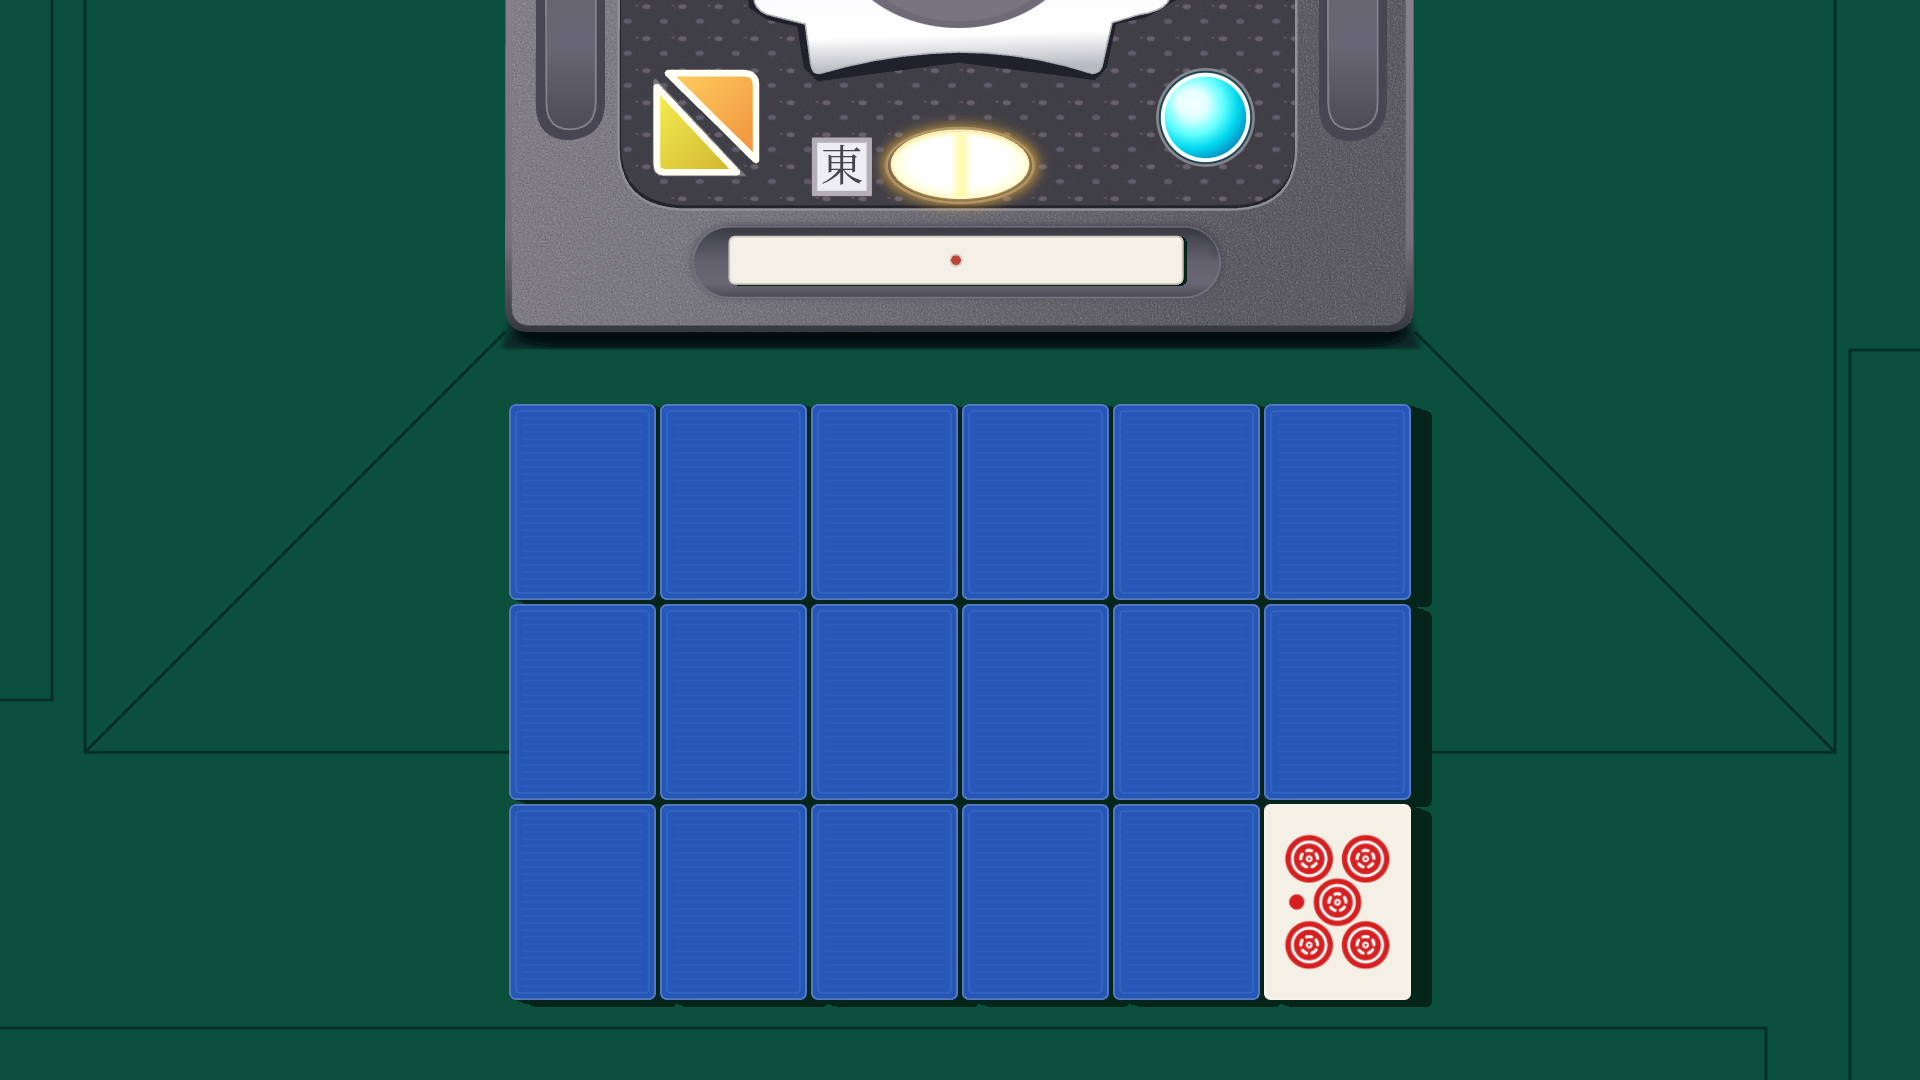
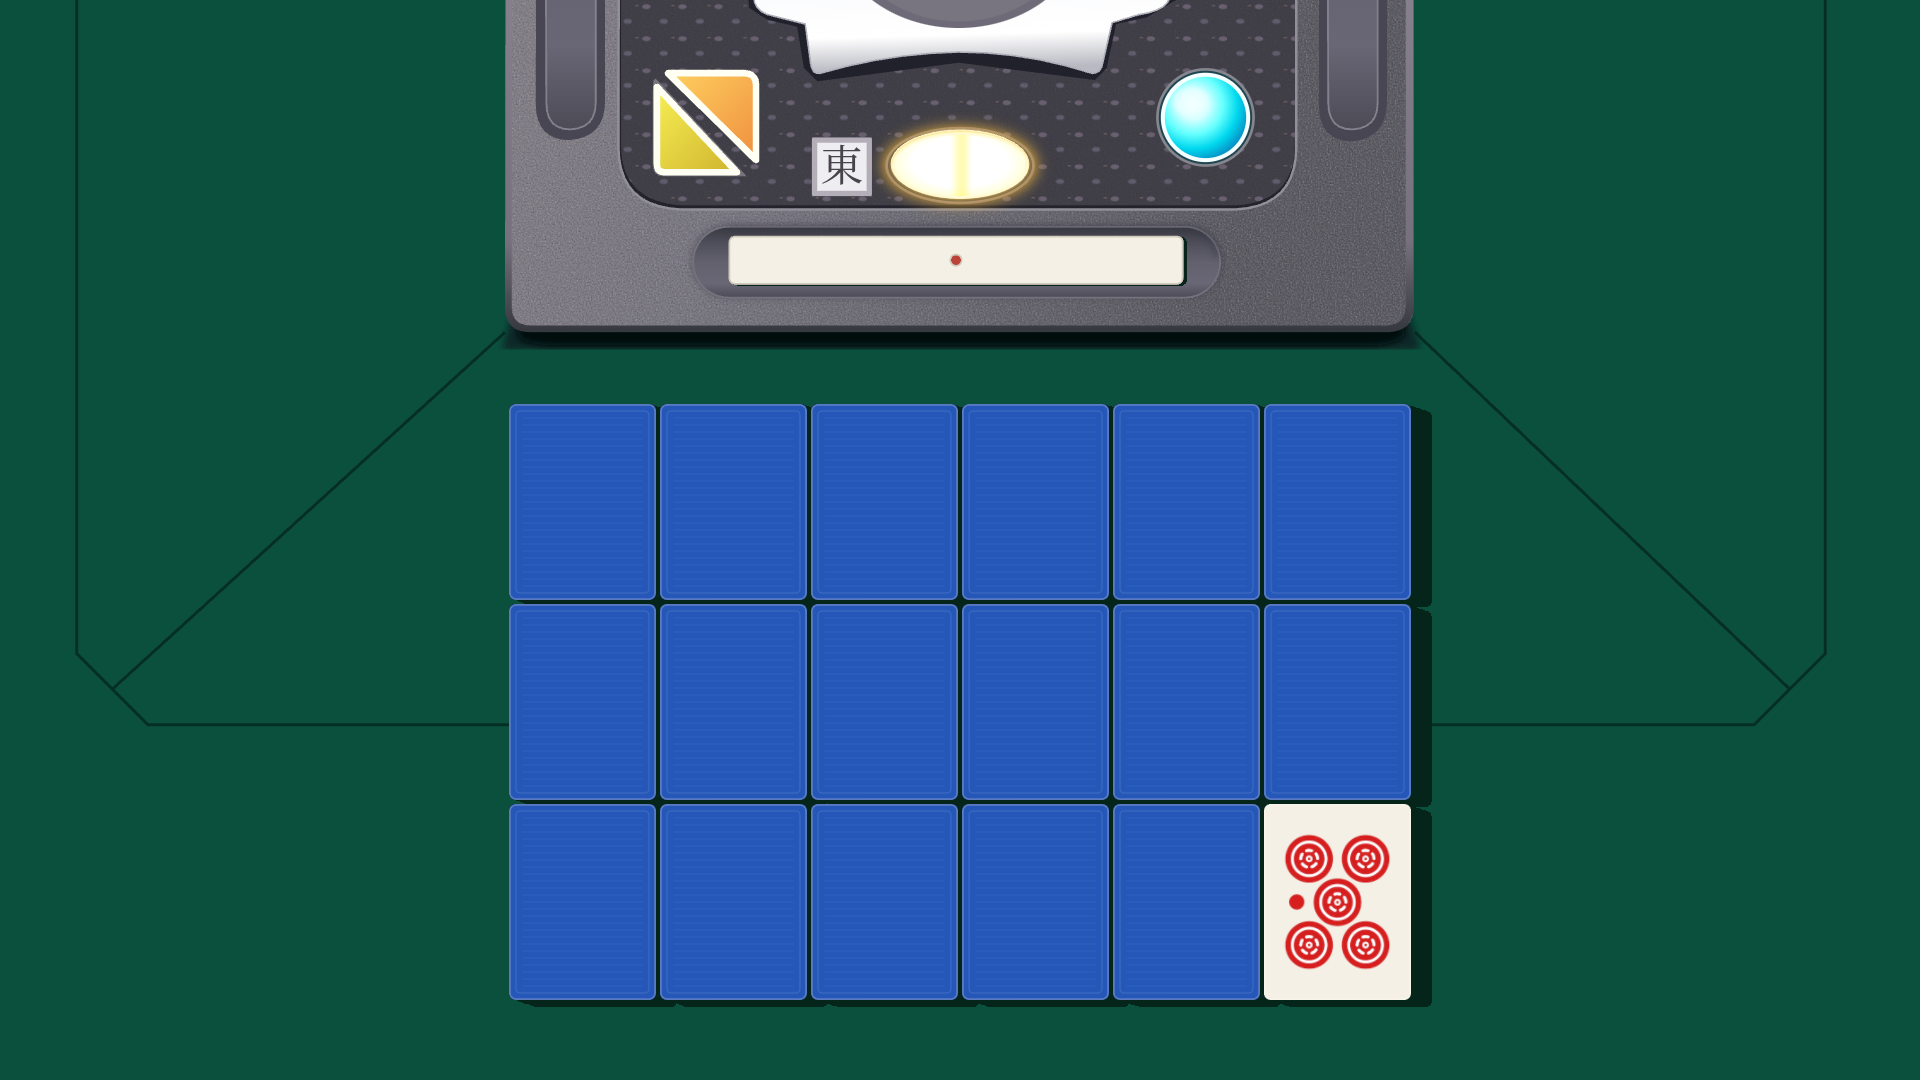
Trace tabletop seams to the supplied overhead reference

diff --git a/table-surface.js b/table-surface.js
@@ -1,18 +1,48 @@
-import { CONTROL, controlPoint, mm } from './physical-layout.js';
+import { CONTROL, controlPoint } from './physical-layout.js';
 
-// Reference: the overhead AMOS REXX III CSJ replacement mat. Closed lift doors
-// have thin rectangular joints; diagonal cuts connect the center lid to its box.
-// The four wall doors are fitted to this cropped composition, not factory dimensions.
-const doorLength = mm(348), doorWidth = mm(21);
-const doors = [
-  [1040, -1160, doorLength, doorWidth],
-  [-95, 700 - doorLength, doorWidth, doorLength],
-  [1850, 350, doorWidth, doorLength],
-  [-670, 1028, doorLength, doorWidth],
-];
-// The upper door stays above y=0 in this fixed crop and needs no canvas padding.
-const lowerDoors = doors.filter(([, y, , height]) => y + height >= 0);
+// Traced from the left (white) table in the user's 730x486 overhead photograph.
+// These are photograph pixels, not guessed millimeters or viewport placements.
+export const TABLE_REFERENCE = Object.freeze({
+  image: { width: 730, height: 486 },
+  control: { x: 158, y: 211, width: 51, height: 51 },
+  cover: [[138, 188], [228, 188], [232, 192], [232, 280], [228, 284], [138, 284], [134, 280], [134, 192]],
+  dividers: [
+    [[136, 190], [158, 211]], [[230, 190], [209, 211]],
+    [[230, 282], [209, 262]], [[136, 282], [158, 262]],
+  ],
+  openings: [
+    { id: 'lift-top', x: 139, y: 154, width: 137, height: 13 },
+    { id: 'lift-right', x: 252, y: 191, width: 12, height: 138 },
+    { id: 'lift-bottom', x: 90, y: 305, width: 137, height: 13 },
+    { id: 'lift-left', x: 102, y: 143, width: 12, height: 137 },
+    { id: 'deal-top', x: 139, y: 114, width: 99, height: 12 },
+    { id: 'deal-right', x: 293, y: 193, width: 12, height: 98 },
+    { id: 'deal-bottom', x: 127, y: 346, width: 100, height: 12 },
+    { id: 'deal-left', x: 61, y: 181, width: 12, height: 100 },
+  ],
+});
 export const SEAM_WIDTH = 3;
+const referenceScale = CONTROL.width / TABLE_REFERENCE.control.width;
+const anchor = controlPoint(7, 249);
+
+// Align the photo's control-box lower-left corner to the existing 2D housing.
+// One uniform scale preserves every length ratio and relative offset.
+export function referencePoint(x, y) {
+  const control = TABLE_REFERENCE.control;
+  return {
+    x: anchor.x + (x - control.x) * referenceScale,
+    y: anchor.y + (y - control.y - control.height) * referenceScale,
+  };
+}
+
+export const TABLE_SEAMS = Object.freeze({
+  cover: TABLE_REFERENCE.cover.map(([x, y]) => referencePoint(x, y)),
+  dividers: TABLE_REFERENCE.dividers.map(line => line.map(([x, y]) => referencePoint(x, y))),
+  openings: TABLE_REFERENCE.openings.map(({ id, x, y, width, height }) => ({
+    id, ...referencePoint(x, y), width: width * referenceScale, height: height * referenceScale,
+  })),
+});
+const lowerOpenings = TABLE_SEAMS.openings.filter(({ y, height }) => y + height >= 0);
 
 // Keep the original composition's fit and position. Only its tabletop grows;
 // the 3D camera, hit targets and cropped control box retain their coordinates.
@@ -21,23 +51,23 @@ export function tableLayout(width, height) {
   const sceneLeft = (width - 1920 * scale) / 2;
   const sceneTop = (height - 1080 * scale) / 2;
   const padding = SEAM_WIDTH;
-  const left = Math.floor(Math.min(-sceneLeft / scale, ...lowerDoors.map(([x]) => x - padding)));
-  const right = Math.ceil(Math.max((width - sceneLeft) / scale, ...lowerDoors.map(([x, , w]) => x + w + padding)));
-  const bottom = Math.ceil(Math.max((height - sceneTop) / scale, ...lowerDoors.map(([, y, , h]) => y + h + padding)));
+  const left = Math.floor(Math.min(-sceneLeft / scale, ...lowerOpenings.map(({ x }) => x - padding)));
+  const right = Math.ceil(Math.max((width - sceneLeft) / scale, ...lowerOpenings.map(({ x, width }) => x + width + padding)));
+  const bottom = Math.ceil(Math.max((height - sceneTop) / scale, ...lowerOpenings.map(({ y, height }) => y + height + padding)));
   return { scale, sceneLeft, sceneTop, left, width: right - left, height: bottom };
 }
 
 export function drawTableSeams(context) {
-  const lowerLeft = controlPoint(7, 249), lowerRight = controlPoint(689, 249);
-  const margin = mm(60), side = CONTROL.width + margin * 2;
-  const left = lowerLeft.x - margin, bottom = lowerLeft.y + margin;
   context.save();
   context.strokeStyle = '#052f24'; context.lineWidth = SEAM_WIDTH; context.lineJoin = 'miter';
   context.beginPath();
-  context.rect(left, bottom - side, side, side);
-  context.moveTo(left, bottom); context.lineTo(lowerLeft.x, lowerLeft.y);
-  context.moveTo(left + side, bottom); context.lineTo(lowerRight.x, lowerRight.y);
-  // Draw the complete geometry. The viewport crops it, rather than a 1920x1080 surface.
-  for (const door of doors) context.rect(...door);
+  const [start, ...corners] = TABLE_SEAMS.cover;
+  context.moveTo(start.x, start.y);
+  for (const point of corners) context.lineTo(point.x, point.y);
+  context.closePath();
+  for (const [from, to] of TABLE_SEAMS.dividers) {
+    context.moveTo(from.x, from.y); context.lineTo(to.x, to.y);
+  }
+  for (const { x, y, width, height } of TABLE_SEAMS.openings) context.rect(x, y, width, height);
   context.stroke(); context.restore();
 }

diff --git a/tests/table-surface.test.js b/tests/table-surface.test.js
@@ -1,6 +1,29 @@
 import test from 'node:test';
 import assert from 'node:assert/strict';
-import { tableLayout, SEAM_WIDTH } from '../table-surface.js';
+import { tableLayout, referencePoint, TABLE_REFERENCE, TABLE_SEAMS, SEAM_WIDTH } from '../table-surface.js';
+import { CONTROL, controlPoint } from '../physical-layout.js';
+
+test('all eight openings and the center cover keep the supplied photograph proportions', () => {
+  const near = (a, b) => assert.ok(Math.abs(a - b) < 1e-9, `${a} != ${b}`);
+  assert.deepEqual(referencePoint(158, 262), controlPoint(7, 249));
+  assert.deepEqual(referencePoint(209, 262), controlPoint(689, 249));
+  near(referencePoint(209, 211).y, CONTROL.bottom - CONTROL.width);
+  assert.equal(TABLE_SEAMS.openings.length, 8);
+  for (const [index, opening] of TABLE_SEAMS.openings.entries()) {
+    const photo = TABLE_REFERENCE.openings[index];
+    near(opening.width / CONTROL.width, photo.width / 51);
+    near(opening.height / CONTROL.width, photo.height / 51);
+    near((opening.x - 960) / CONTROL.width, (photo.x - 183.5) / 51);
+    near((opening.y - CONTROL.bottom) / CONTROL.width, (photo.y - 262) / 51);
+  }
+  const bottom = TABLE_SEAMS.openings.find(({ id }) => id === 'lift-bottom');
+  near(bottom.width / CONTROL.width, 137 / 51);
+  const xs = TABLE_SEAMS.cover.map(p => p.x), ys = TABLE_SEAMS.cover.map(p => p.y);
+  near((Math.max(...xs) - Math.min(...xs)) / CONTROL.width, 98 / 51);
+  near((Math.max(...ys) - Math.min(...ys)) / CONTROL.width, 96 / 51);
+  assert.equal(TABLE_SEAMS.cover.length, 8);
+  assert.equal(TABLE_SEAMS.dividers.length, 4);
+});
 
 test('the extended table preserves the existing composition on portrait, landscape and ultrawide screens', () => {
   for (const [width, height] of [[1920, 1080], [2560, 1080], [768, 1024], [390, 844], [390, 1200], [3840, 2160]]) {
@@ -12,9 +35,11 @@ test('the extended table preserves the existing composition on portrait, landsca
     assert.ok(table.sceneLeft + (table.left + table.width) * table.scale >= width);
     assert.ok(table.sceneTop + table.height * table.scale >= height);
     // Door ends beyond the original surface remain part of the drawing area.
-    assert.ok(table.left <= -670 - SEAM_WIDTH);
-    assert.ok(table.left + table.width >= 1997 + SEAM_WIDTH);
-    assert.ok(table.height >= 2786 + SEAM_WIDTH);
+    for (const opening of TABLE_SEAMS.openings.filter(({ y, height }) => y + height >= 0)) {
+      assert.ok(table.left <= opening.x - SEAM_WIDTH);
+      assert.ok(table.left + table.width >= opening.x + opening.width + SEAM_WIDTH);
+      assert.ok(table.height >= opening.y + opening.height + SEAM_WIDTH);
+    }
   }
   assert.equal(SEAM_WIDTH / 2, 1.5);
 });

diff --git a/app.js b/app.js
@@ -1,9 +1,9 @@
 import { smooth, center, entryScale, flipPose, motionDistance } from './geometry.js';
-import { Mahjong3D } from './mahjong-3d.js?v=20261010-table-inset';
-import { REST_STICK, STICK_PICKUP_DURATION, createStickDrop, stickMotionDistance } from './score-stick.js?v=20261010-table-inset';
-import { flipAt, settleFlips, revealTile, resetTiles } from './tile-interactions.js?v=20261010-table-inset';
-import { RIICHI_FACES, nextRiichiFace } from './riichi-faces.js?v=20261010-table-inset';
-import { drawTableSeams, tableLayout } from './table-surface.js?v=20261010-table-inset';
+import { Mahjong3D } from './mahjong-3d.js?v=20261010-reference-seams';
+import { REST_STICK, STICK_PICKUP_DURATION, createStickDrop, stickMotionDistance } from './score-stick.js?v=20261010-reference-seams';
+import { flipAt, settleFlips, revealTile, resetTiles } from './tile-interactions.js?v=20261010-reference-seams';
+import { RIICHI_FACES, nextRiichiFace } from './riichi-faces.js?v=20261010-reference-seams';
+import { drawTableSeams, tableLayout } from './table-surface.js?v=20261010-reference-seams';
 import { CONTROL } from './physical-layout.js';
 
 const $ = (id) => document.getElementById(id);
@@ -380,7 +380,7 @@ document.addEventListener('visibilitychange', () => { if (!document.hidden) requ
 async function initialize() {
   createHitTargets();
   await document.fonts.ready;
-  await Promise.all([buildTextures(), loadImage('./assets/control-box.svg?v=20261010-table-inset').then((image) => { consoleImage = image; })]);
+  await Promise.all([buildTextures(), loadImage('./assets/control-box.svg?v=20261010-reference-seams').then((image) => { consoleImage = image; })]);
   mahjong = new Mahjong3D($('mahjong'), tiles);
   updateControlHint();
   epoch = performance.now();

diff --git a/index.html b/index.html
@@ -7,8 +7,8 @@
     <meta name="description" content="牌河视觉档案：以十八张麻将牌收藏图像、文字与项目。点击一张牌，展开一段观察。">
     <title>牌河视觉档案 · ShinRyu</title>
     <link rel="icon" href="./assets/favicon.svg" type="image/svg+xml">
-    <link rel="stylesheet" href="./styles.css?v=20261010-table-inset">
-    <script src="./app.js?v=20261010-table-inset" type="module"></script>
+    <link rel="stylesheet" href="./styles.css?v=20261010-reference-seams">
+    <script src="./app.js?v=20261010-reference-seams" type="module"></script>
   </head>
   <body>
     <main id="viewport" aria-label="牌河视觉档案">

diff --git a/mahjong-3d.js b/mahjong-3d.js
@@ -1,7 +1,7 @@
 import * as THREE from './vendor/three.module.js';
 import { SPEC } from './geometry.js';
 import { mm } from './physical-layout.js';
-import { STICK, REST_STICK } from './score-stick.js?v=20261010-table-inset';
+import { STICK, REST_STICK } from './score-stick.js?v=20261010-reference-seams';
 
 // Includes every lifted/rotated silhouette and the light's maximum projected shadow.
 export const VIEW = Object.freeze({ left: 420, top: 0, width: 1116, height: 1040 });

diff --git a/README.md b/README.md
@@ -46,7 +46,7 @@
 
 ## 桌面缝隙与右下角日麻牌面
 
-桌面参考 [AMOS REXX III CSJ 替换桌面垫的俯视图](https://www.alban.co.jp/products/detail/760)及其[原图](https://www.alban.co.jp/html/upload/save_image/0418162342_6620ca7e99055.png)，并对照 [REXX III 实物照片](https://www.e-mahjong.co.jp/eccube/html/user_data/rexx3/rexx3-03.jpg)。背景添加中央盖板接缝、连接控制盒的斜向接缝和四侧长条麻将升降口的矩形接缝；上侧出入口位于当前裁切范围之外。位置按现有构图调整，并非厂家尺寸。使用平面深色细线绘制，不增加光影效果；参考照片不随站点分发。接缝线宽从 2 改为 **3 个设计像素（1.5 倍）**。
+桌面接缝以用户本轮提供的 **730 × 486 双桌俯视图**为准：取左侧白色桌的控制盒 51 像素边长，统一映射到网页现有控制盒 910 个设计像素的边长。按原图坐标重画中央盖板的切角轮廓、四条斜向分隔缝、四条内侧升牌口及四条外侧出牌口，不再按视窗重新安排长度和位置。中央盖板约为控制盒边长的 1.9 倍，内侧长槽约为 2.7 倍，外侧短槽约为 2 倍；详细端点及比例见 [接缝参考图标定](docs/table-seam-reference.md)。这些是参考图中的比例，并非厂家公布的尺寸。使用平面深色细线绘制，不增加光影效果；参考照片不随站点分发。接缝仍为 **3 个设计像素宽（最初的 1.5 倍）**。
 
 牌、点棒与控制盒仍使用原来的 **1920 × 1080 构图坐标**、居中缩放及固定正俯视相机。桌面画布单独扩展：覆盖左、右、下方全部出入口边界，并随视口比例补足可见范围；不再在原来的画布边缘截断接缝。桌面延伸部分只绘制背景及接缝，物件和点击区域保持原坐标。屏幕边缘继续自然裁切，页面不允许滚动，也不增加视角移动。
 
@@ -57,6 +57,8 @@
 牌面素材采用 **CC0 1.0**，可用于此静态站点；来源、固定版本和许可见 [`assets/mahjong/SOURCES.md`](assets/mahjong/SOURCES.md) 与 [`LICENSE.md`](assets/mahjong/LICENSE.md)。加载与重置均无需外部图片服务。
 
 ![桌面接缝及右下角日麻牌面](docs/v2-riichi-preview.png)
+
+![超宽屏中按参考图比例露出的升牌口](docs/v2-reference-seams-wide.png)
 
 ## 白色点棒与掉落
 
@@ -97,7 +99,7 @@ python3 -m http.server 8080
 
 部署完成后访问 **https://5h1nryu.github.io/ShinRyu/**。
 
-本次更新给入口脚本、样式、麻将与点棒模块、翻牌交互模块、日麻牌面模块、桌面接缝模块和控制盒图片的 URL 加了 `v=20261010-table-inset` 版本参数，让浏览器和 CDN 按新地址获取资源。后续修改这些资源时应同步更新对应版本参数，包括引用它们的模块入口。
+本次更新给入口脚本、样式、麻将与点棒模块、翻牌交互模块、日麻牌面模块、桌面接缝模块和控制盒图片的 URL 加了 `v=20261010-reference-seams` 版本参数，让浏览器和 CDN 按新地址获取资源。后续修改这些资源时应同步更新对应版本参数，包括引用它们的模块入口。
 
 ## 检查与文件
 
@@ -108,7 +110,7 @@ npm run check
 npm test
 ```
 
-测试覆盖逐张揭示、正面点击无效、混合牌面与全正面/全背面重置、两轮波纹间 500 ms 等待、重置中保留未完成的单牌动画、37 种本地 SVG 与 136 张牌的权重、赤五数量及相邻重置牌面不重复、横屏/竖屏/超宽屏的桌面扩展和原构图保持、参考图裁切范围、三者统一毫米比例和槽位对齐、模型厚度、真实旋转关键帧、桌面穿透、正面 UV 方向、正交相机，以及点棒的 1.5 倍播放速度、圆角、端部碰撞、回弹、固定中点、连续 80 次落定角度变化与 ±8° 上限。检查工作流同时覆盖 main 与 v2 的推送。
+测试覆盖逐张揭示、正面点击无效、混合牌面与全正面/全背面重置、两轮波纹间 500 ms 等待、重置中保留未完成的单牌动画、37 种本地 SVG 与 136 张牌的权重、赤五数量及相邻重置牌面不重复、参考图八条槽口的长宽比例与偏移、中央盖板比例、横屏/竖屏/超宽屏的桌面扩展和原构图保持、参考图裁切范围、三者统一毫米比例和槽位对齐、模型厚度、真实旋转关键帧、桌面穿透、正面 UV 方向、正交相机，以及点棒的 1.5 倍播放速度、圆角、端部碰撞、回弹、固定中点、连续 80 次落定角度变化与 ±8° 上限。检查工作流同时覆盖 main 与 v2 的推送。
 
 | 文件 | 用途 |
 | --- | --- |

diff --git a/docs/table-seam-reference.md b/docs/table-seam-reference.md
@@ -1,0 +1,32 @@
+# 接缝参考图标定
+
+以本轮用户提供的 **730 × 486** 俯视图为准，使用左侧白色桌的像素坐标。
+控制盒范围取 `x=158..209, y=211..262`，边长为 **51 个参考像素**。
+网页中已有控制盒边长为 910 个设计像素，故全部接缝采用同一个比例
+`910 / 51`；将参考控制盒左下角 `(158,262)` 对齐网页外壳左下角。
+保留参考图可见的取整差异，不强制四条槽完全对称，也不为了让槽口露出而移动它们。
+
+![接缝完整标定示意，灰色方块为控制盒](table-seam-layout.svg)
+
+| 接缝 | 参考图左上角 (x,y) | 参考图宽×高 | 长边 / 控制盒边长 |
+| --- | --- | --- | --- |
+| 上侧升牌口 | (139,154) | 137×13 | 2.686 |
+| 右侧升牌口 | (252,191) | 12×138 | 2.706 |
+| 下侧升牌口 | (90,305) | 137×13 | 2.686 |
+| 左侧升牌口 | (102,143) | 12×137 | 2.686 |
+| 上侧出牌口 | (139,114) | 99×12 | 1.941 |
+| 右侧出牌口 | (293,193) | 12×98 | 1.922 |
+| 下侧出牌口 | (127,346) | 100×12 | 1.961 |
+| 左侧出牌口 | (61,181) | 12×100 | 1.961 |
+
+中央盖板范围为 `x=134..232, y=188..284`，宽、高分别为控制盒边长的
+`98/51 = 1.922`、`96/51 = 1.882` 倍。轮廓的四个角采用参考图的切角，
+四条斜向分隔缝连接到控制盒相应角点。
+
+全部原始坐标与换算保存在 [`table-surface.js`](../table-surface.js) 中。
+这些数字描述该参考图中的比例，不是厂家公布的实物尺寸；精度受参考图像素影响。
+参考图不随站点分发。
+
+固定相机、原有 1920×1080 物件构图与控制盒裁切保持不变。桌面背景画布覆盖
+全部位于当前裁切下方的接缝；宽屏或竖屏按视口自然显示对应部分，页面不允许滚动。
+接缝仍为 3 个设计像素宽，麻将、点棒、牌面与重置动画保持现有行为。
